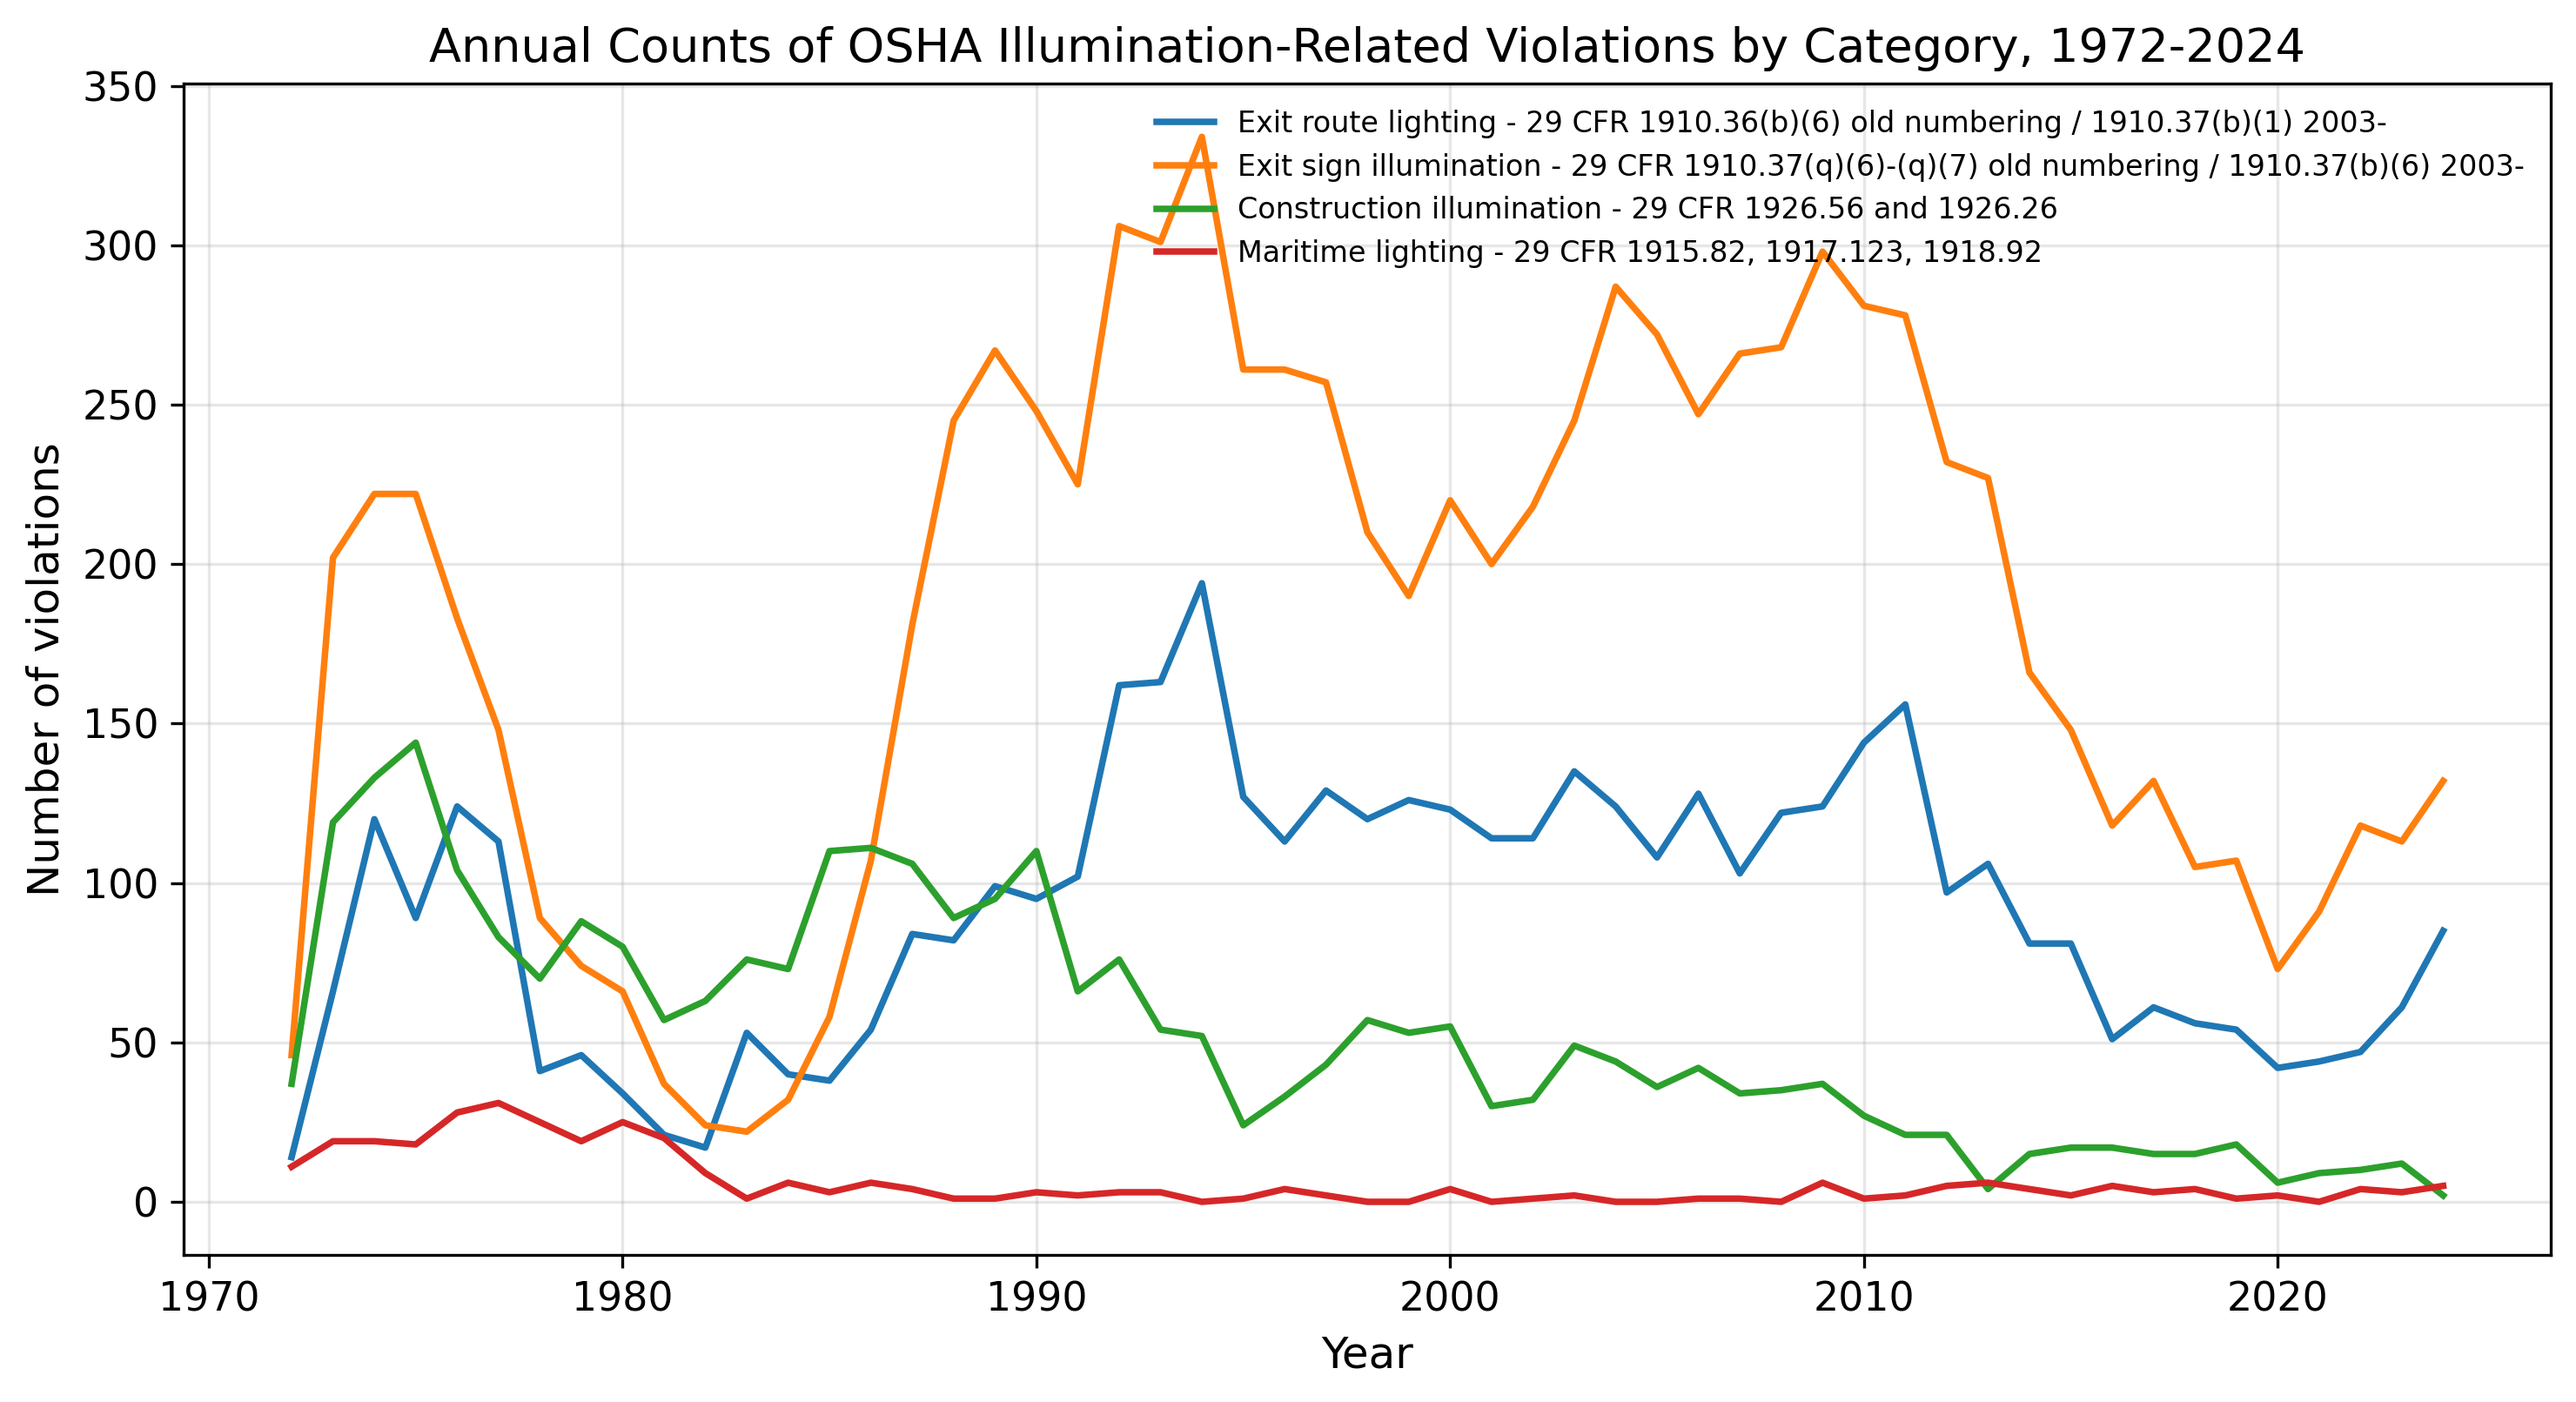
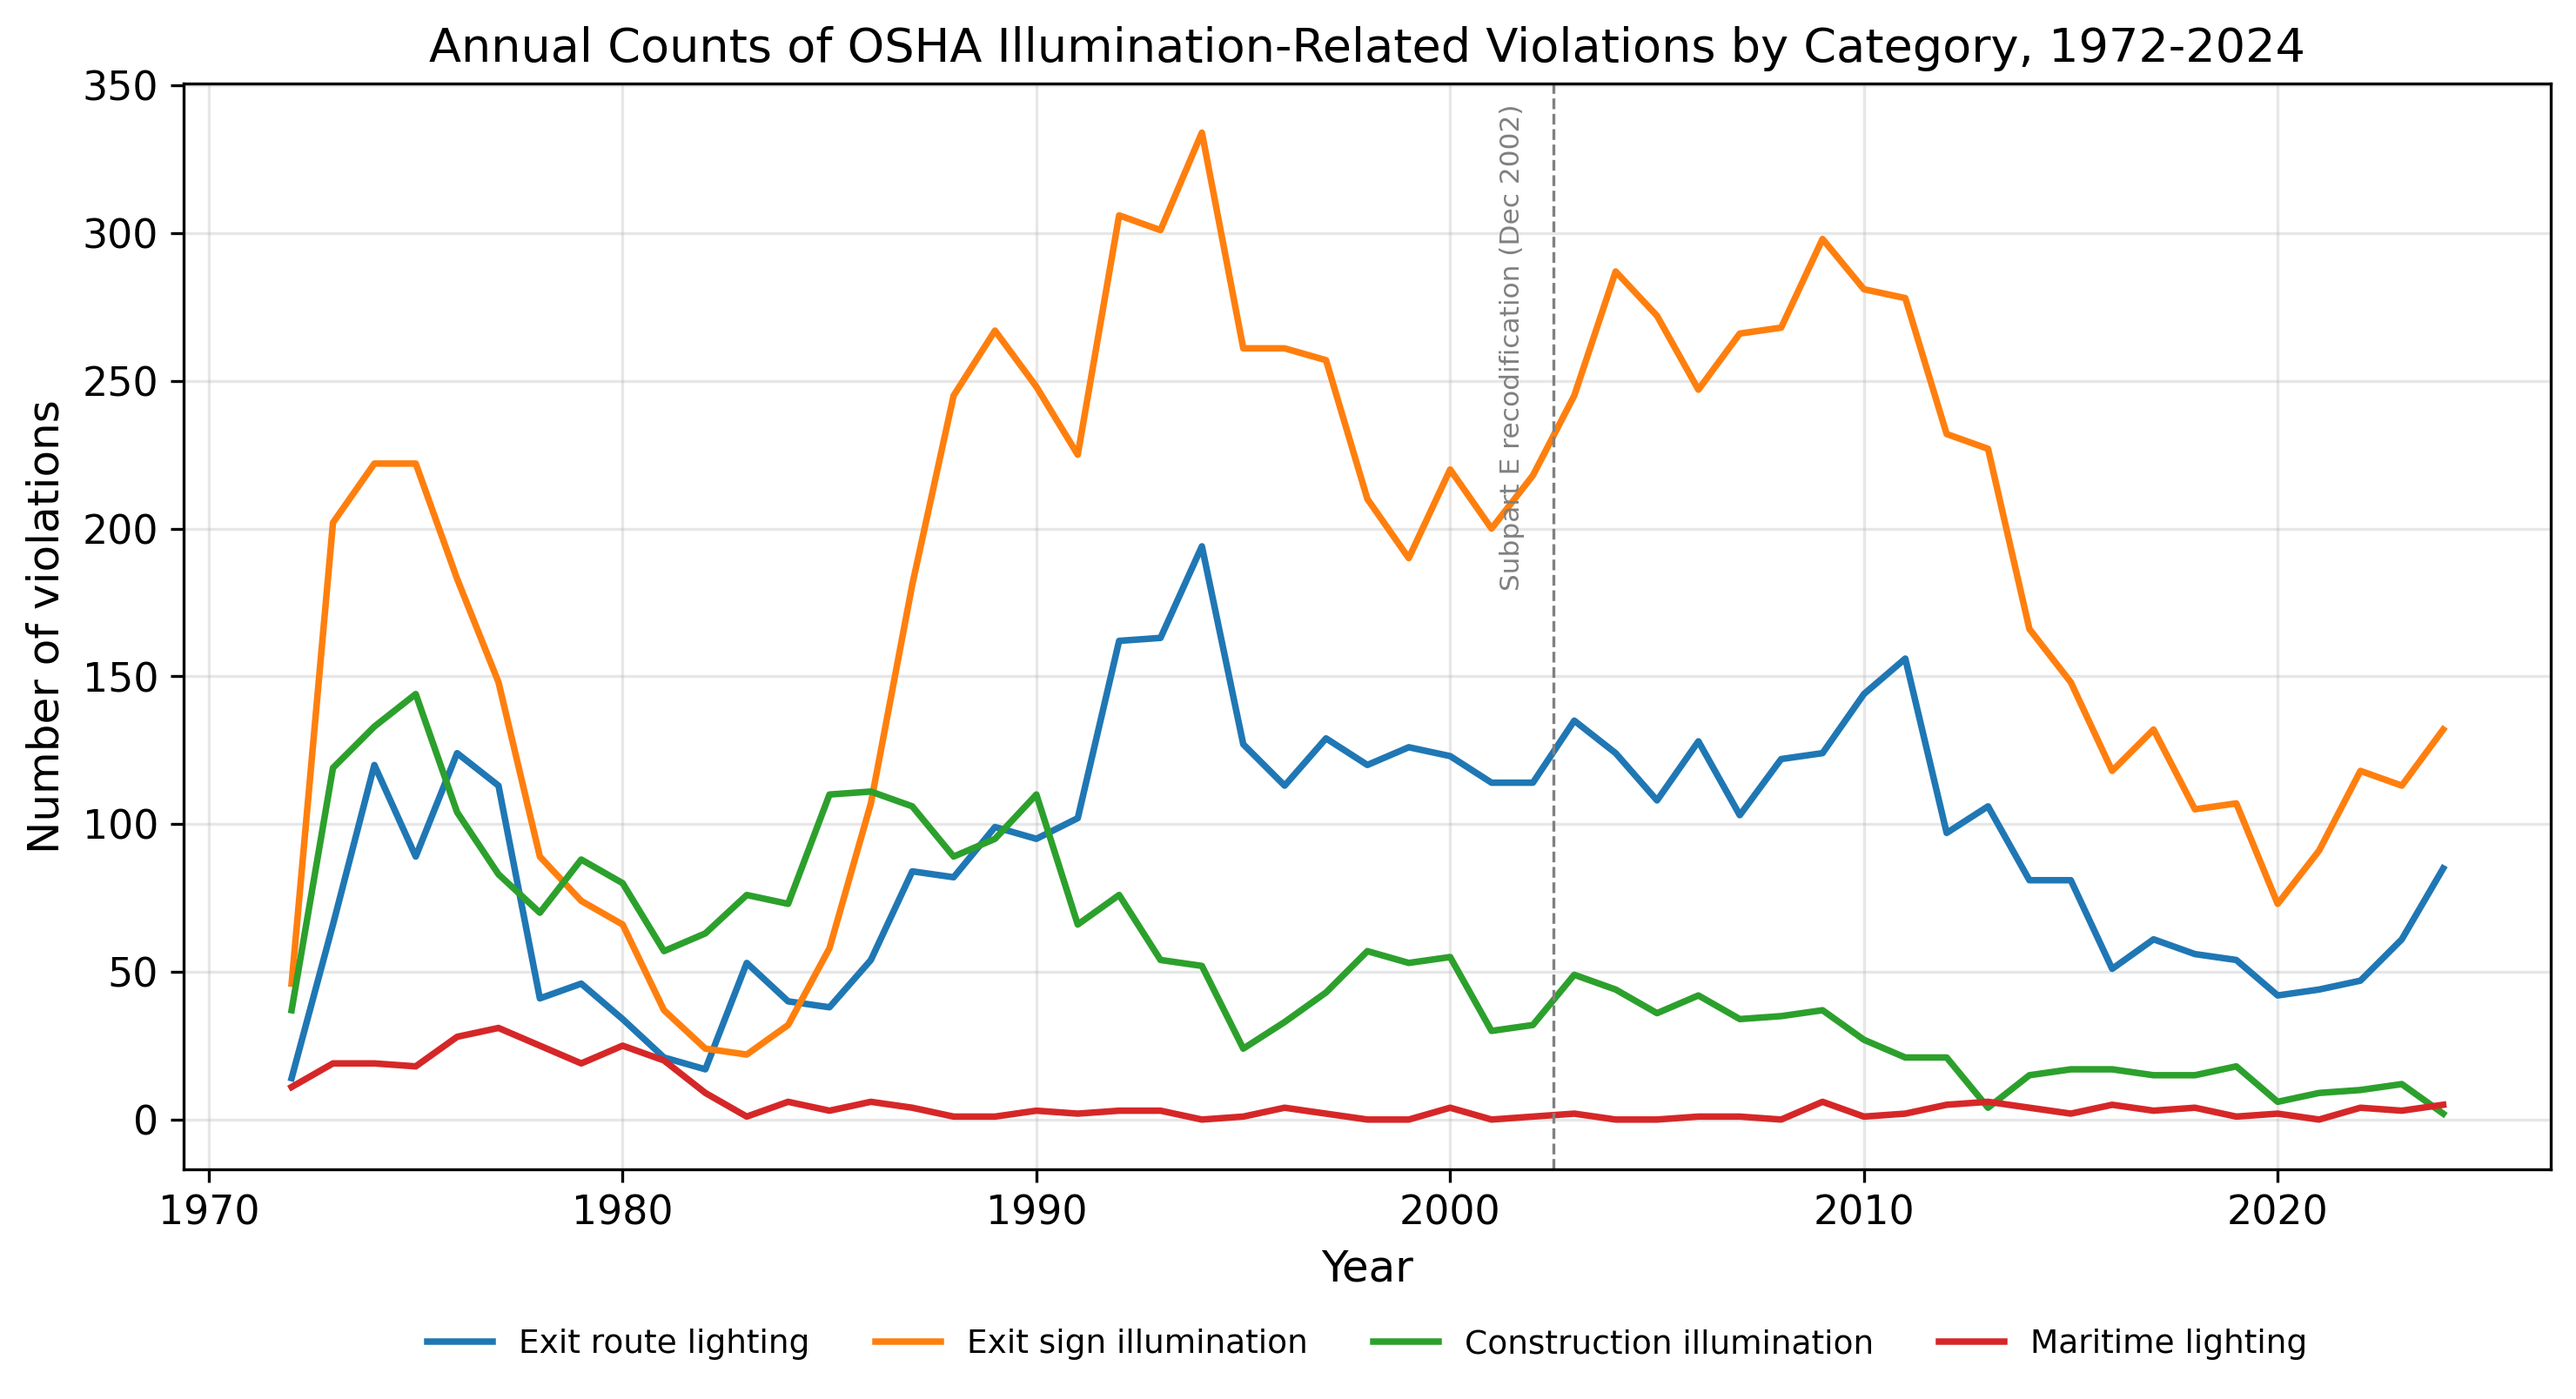
Refine v3 figures: short legends, zero-based y-axis, recodification marker
- Figure 1: legend reduced to category names, placed below the axes
- Figure 2: y-axis starts at 0
- Both: dashed vertical marker at the Dec 2002 Subpart E recodification

diff --git a/corrected_analysis/violations_count_v3.py b/corrected_analysis/violations_count_v3.py
@@ -281,17 +281,23 @@ plt.rcParams.update({
 })
 
 CAT_LABELS = {
-    "exit route lighting":
-        "Exit route lighting - 29 CFR 1910.36(b)(6) old numbering / 1910.37(b)(1) 2003-",
-    "exit sign illumination":
-        "Exit sign illumination - 29 CFR 1910.37(q)(6)-(q)(7) old numbering / 1910.37(b)(6) 2003-",
-    "construction illumination":
-        "Construction illumination - 29 CFR 1926.56 and 1926.26",
-    "maritime lighting":
-        "Maritime lighting - 29 CFR 1915.82, 1917.123, 1918.92",
+    "exit route lighting": "Exit route lighting",
+    "exit sign illumination": "Exit sign illumination",
+    "construction illumination": "Construction illumination",
+    "maritime lighting": "Maritime lighting",
 }
 CAT_ORDER = ["exit route lighting", "exit sign illumination",
              "construction illumination", "maritime lighting"]
+
+RECODIFICATION_X = 2002.5  # Subpart E recodification, effective Dec 9, 2002
+
+
+def mark_recodification(ax):
+    """Thin grey dashed vertical line + small annotation at the 2003 era split."""
+    ax.axvline(RECODIFICATION_X, color="grey", linestyle="--", linewidth=0.8)
+    ax.text(RECODIFICATION_X - 0.7, ax.get_ylim()[1] * 0.98,
+            "Subpart E recodification (Dec 2002)",
+            rotation=90, ha="right", va="top", fontsize=7.5, color="grey")
 
 cat_annual = (illum.groupby(["year", "category"]).size().unstack(fill_value=0)
               .reindex(range(YEAR_MIN, YEAR_MAX + 1), fill_value=0)
@@ -305,7 +311,9 @@ plt.title(f"Annual Counts of OSHA Illumination-Related Violations by Category, "
           f"{YEAR_MIN}-{YEAR_MAX}")
 plt.xlabel("Year")
 plt.ylabel("Number of violations")
-plt.legend(fontsize=8, loc="upper right", frameon=False)
+mark_recodification(plt.gca())
+plt.legend(fontsize=9, loc="upper center", bbox_to_anchor=(0.5, -0.12),
+           ncol=4, frameon=False)
 plt.grid(True, alpha=0.3)
 plt.tight_layout()
 plt.savefig(fig1_path, bbox_inches="tight")
@@ -321,6 +329,8 @@ plt.title(f"Illumination-Related Violations as a Share of All OSHA Violations, "
           f"{YEAR_MIN}-{YEAR_MAX}")
 plt.xlabel("Year")
 plt.ylabel("Share of all OSHA violations (%)")
+plt.ylim(bottom=0)
+mark_recodification(plt.gca())
 plt.legend(fontsize=9, frameon=False)
 plt.grid(True, alpha=0.3)
 plt.tight_layout()
